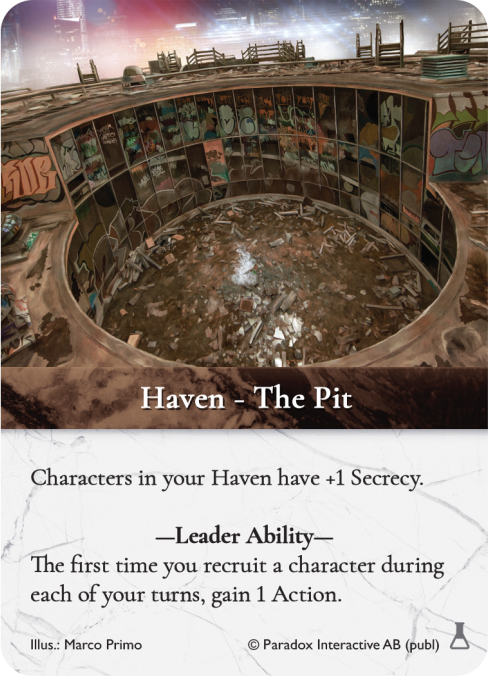
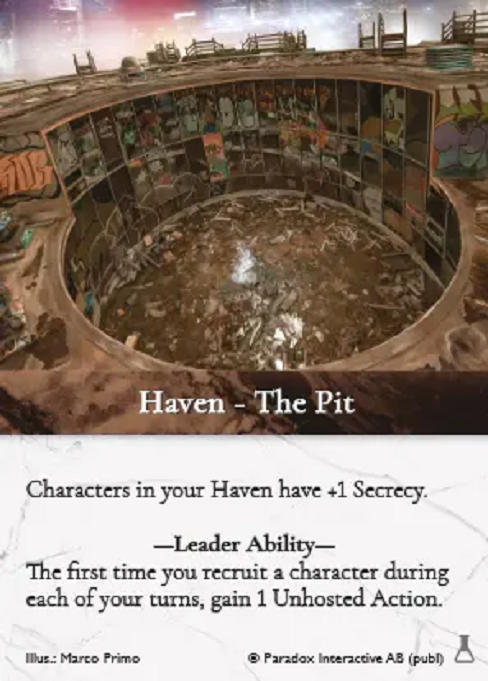
RDB-40

diff --git a/server/src/cardCollection/havens.ts b/server/src/cardCollection/havens.ts
@@ -30,7 +30,7 @@ Characters in your Haven have +1 Secrecy.
 
       **Leader Ability**
 
-      The first time you recruit a character during each of your turns, gain 1 Action.
+      The first time you recruit a character during each of your turns, gain 1 Unhosted Action.
     `,
     illustrator: "Marco Primo",
     set: "Blood & Alchemy",
